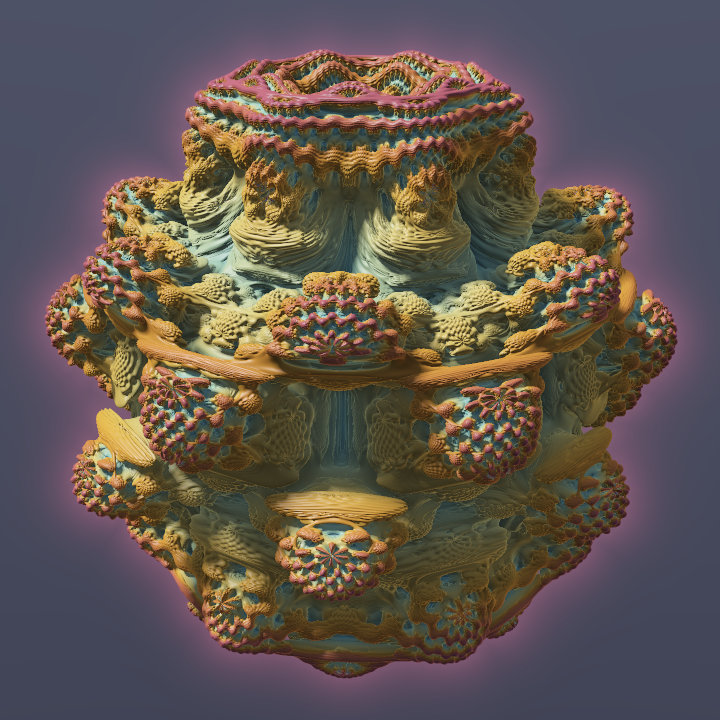
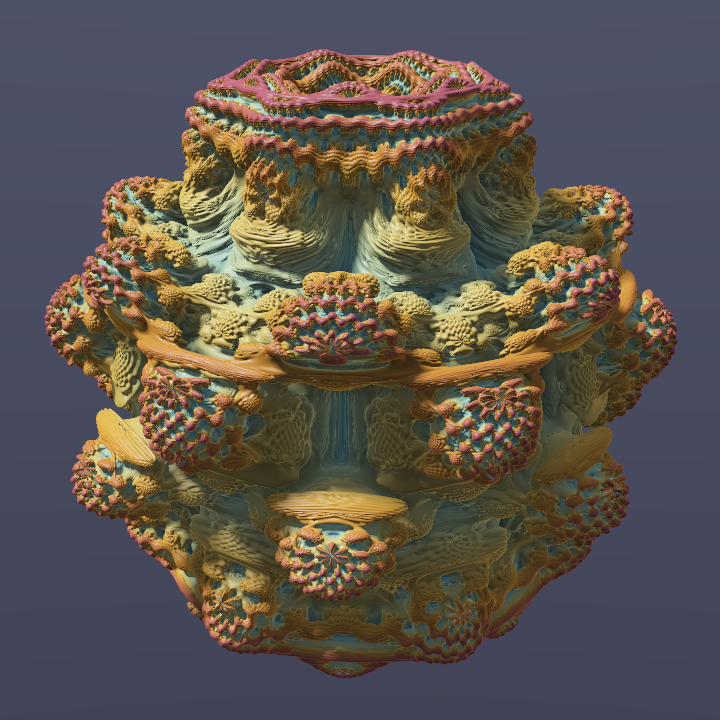
images

Changed region(s): [[0.0306, 0.0306, 0.9778, 0.9778]]

diff --git a/web/index.html b/web/index.html
@@ -515,7 +515,8 @@ void main() { fragColor = vec4(texture(uTex, gl_FragCoord.xy / uOut).rgb, 1.0); 
 
 // ---------------------------------------------------------------- constants
 const BASE_DIST = 3.6;
-const DEFAULT_CAM = { target: [0, 0, 0], az: 30, el: 25, dist: 3.6 };
+// Default view: the zoom x4.9 close-up used for images/zoom.png in the repo
+const DEFAULT_CAM = { target: [0.54433, 0.120321, 0.525335], az: 33.5, el: 20, dist: 3.6 / 4.9 };
 // Cosine palettes a + b*cos(2pi(c*t + d)), identical to mandelbulb/palettes.py
 const PALETTES = {
   Skytopia: [[0.60,0.50,0.45],[0.40,0.40,0.40],[1.00,0.90,0.80],[0.05,0.25,0.45]],
@@ -536,8 +537,8 @@ const PRESETS = {
 
 // ---------------------------------------------------------------- state
 const S = {
-  power: 8, iters: 12, detail: 1, julia: false, cx: -0.6, cy: -0.4, cz: 0.4,
-  palette: "Skytopia", cfreq: 1.4, coff: 0.1, glow: 0.4, fog: 0, spec: 0.35,
+  power: 8, iters: 14, detail: 1, julia: false, cx: -0.6, cy: -0.4, cz: 0.4,
+  palette: "Ember", cfreq: 1.4, coff: 0.1, glow: 0, fog: 0, spec: 0.35,
   shadows: true, ao: true, fov: 40,
   rotSpeed: 6, morphSpeed: 0.25,
   animRotate: false, animPower: false, animJulia: false,

diff --git a/app.py b/app.py
@@ -19,8 +19,9 @@ from PIL import Image
 
 from mandelbulb import PALETTES, DEFAULT_PALETTE, Camera, pick, render, warmup
 
-DEFAULT_VIEW = {"target": [0.0, 0.0, 0.0], "dist": 3.6}
-DEFAULT_AZ, DEFAULT_EL = 30.0, 25.0
+# Default view: the zoom x4.9 close-up used for images/zoom.png
+DEFAULT_VIEW = {"target": [0.54433, 0.120321, 0.525335], "dist": 3.6 / 4.9}
+DEFAULT_AZ, DEFAULT_EL = 33.5, 20.0
 BASE_DIST = 3.6
 
 PRESETS = {
@@ -115,7 +116,7 @@ controls = html.Div(className="panel", children=[
         labeled("Preset", dcc.Dropdown(id="preset", options=list(PRESETS),
                                        placeholder="Choose a preset…", clearable=True)),
         labeled("Power", slider("power", 2, 16, 0.5, 8, {2: "2", 8: "8", 16: "16"})),
-        labeled("Iterations", slider("iters", 3, 40, 1, 12, {3: "3", 12: "12", 40: "40"})),
+        labeled("Iterations", slider("iters", 3, 40, 1, 14, {3: "3", 14: "14", 40: "40"})),
         labeled("Detail (lower = finer, slower)",
                 slider("detail", 0.25, 4, 0.25, 1.0, {0.25: "¼", 1: "1", 4: "4"})),
         dcc.Checklist(id="julia", options=[{"label": " Julia mode", "value": "on"}],
@@ -150,9 +151,9 @@ controls = html.Div(className="panel", children=[
                                         value=DEFAULT_PALETTE, clearable=False)),
         labeled("Colour frequency", slider("cfreq", 0.0, 4.0, 0.05, 1.4, {0: "0", 4: "4"})),
         labeled("Colour offset", slider("coffset", 0.0, 1.0, 0.01, 0.1, {0: "0", 1: "1"})),
-        labeled("Glow", slider("glow", 0.0, 1.5, 0.05, 0.4, {0: "0", 1.5: "1.5"})),
+        labeled("Glow", slider("glow", 0.0, 1.5, 0.05, 0.0, {0: "0", 1.5: "1.5"})),
         dcc.Checklist(
-            id="flags", value=["shadows", "ao", "glow"], inline=True, className="check",
+            id="flags", value=["shadows", "ao"], inline=True, className="check",
             options=[{"label": " Shadows", "value": "shadows"},
                      {"label": " Ambient occlusion", "value": "ao"},
                      {"label": " Glow", "value": "glow"},

diff --git a/render.py b/render.py
@@ -38,20 +38,20 @@ def common_args(p):
     p.add_argument("--height", type=int, help="override height")
     p.add_argument("--ss", type=int, default=1, help="supersampling factor per axis (1-4)")
     p.add_argument("--power", type=float, default=8.0)
-    p.add_argument("--iters", type=int, default=12)
+    p.add_argument("--iters", type=int, default=14)
     p.add_argument("--detail", type=float, default=1.0, help="hit tolerance in pixels (lower = finer)")
     p.add_argument("--julia", type=float, nargs=3, metavar=("CX", "CY", "CZ"), help="render a Julia bulb with this c")
-    p.add_argument("--palette", default="Skytopia", choices=list(PALETTES))
+    p.add_argument("--palette", default="Ember", choices=list(PALETTES))
     p.add_argument("--color-freq", type=float, default=1.4)
     p.add_argument("--color-offset", type=float, default=0.1)
-    p.add_argument("--glow", type=float, default=0.4)
+    p.add_argument("--glow", type=float, default=0.0)
     p.add_argument("--fog", type=float, default=0.0)
     p.add_argument("--no-shadows", action="store_true")
     p.add_argument("--no-ao", action="store_true")
-    p.add_argument("--target", type=float, nargs=3, default=(0.0, 0.0, 0.0))
-    p.add_argument("--az", type=float, default=30.0, help="azimuth (deg)")
-    p.add_argument("--el", type=float, default=25.0, help="elevation (deg)")
-    p.add_argument("--zoom", type=float, default=1.0, help="zoom factor (camera distance = 3.6 / zoom)")
+    p.add_argument("--target", type=float, nargs=3, default=(0.54433, 0.120321, 0.525335))
+    p.add_argument("--az", type=float, default=33.5, help="azimuth (deg)")
+    p.add_argument("--el", type=float, default=20.0, help="elevation (deg)")
+    p.add_argument("--zoom", type=float, default=4.9, help="zoom factor (camera distance = 3.6 / zoom)")
     p.add_argument("--fov", type=float, default=40.0)
     p.add_argument("--gif", help="also write an animated GIF (animations only)")
     p.add_argument("--fps", type=int, default=30)

diff --git a/mandelbulb/renderer.py b/mandelbulb/renderer.py
@@ -319,8 +319,9 @@ def _render_kernel(width, height, cam, tan_half_fov, P, pal, ss):
 class Camera:
     """Orbit camera: looks at `target` from `distance`, azimuth/elevation in degrees (z up)."""
 
-    def __init__(self, target=(0.0, 0.0, 0.0), azimuth=30.0, elevation=25.0,
-                 distance=3.6, fov=40.0):
+    # Default view = the project's signature close-up (zoom x4.9 into the power-8 bulb)
+    def __init__(self, target=(0.54433, 0.120321, 0.525335), azimuth=33.5, elevation=20.0,
+                 distance=3.6 / 4.9, fov=40.0):
         self.target = np.asarray(target, dtype=np.float64)
         self.azimuth = float(azimuth)
         self.elevation = float(np.clip(elevation, -89.9, 89.9))
@@ -367,10 +368,10 @@ class Camera:
 
 
 DEFAULTS = dict(
-    power=8.0, iterations=12, bailout=4.0,
+    power=8.0, iterations=14, bailout=4.0,
     julia=False, julia_c=(0.35, 0.35, -0.35),
     max_steps=None, detail=1.0, fudge=None,
-    shadows=True, ao=True, glow=0.4,
+    shadows=True, ao=True, glow=0.0,
     color_freq=1.4, color_offset=0.1, bound=None, specular=0.35, fog=0.0,
 )
 

diff --git a/mandelbulb/palettes.py b/mandelbulb/palettes.py
@@ -12,7 +12,7 @@ PALETTES = {
     "Bone": [[0.70, 0.66, 0.60], [0.15, 0.15, 0.15], [1.00, 1.00, 1.00], [0.00, 0.05, 0.10]],
 }
 
-DEFAULT_PALETTE = "Skytopia"
+DEFAULT_PALETTE = "Ember"
 
 
 def get_palette(name=None):
